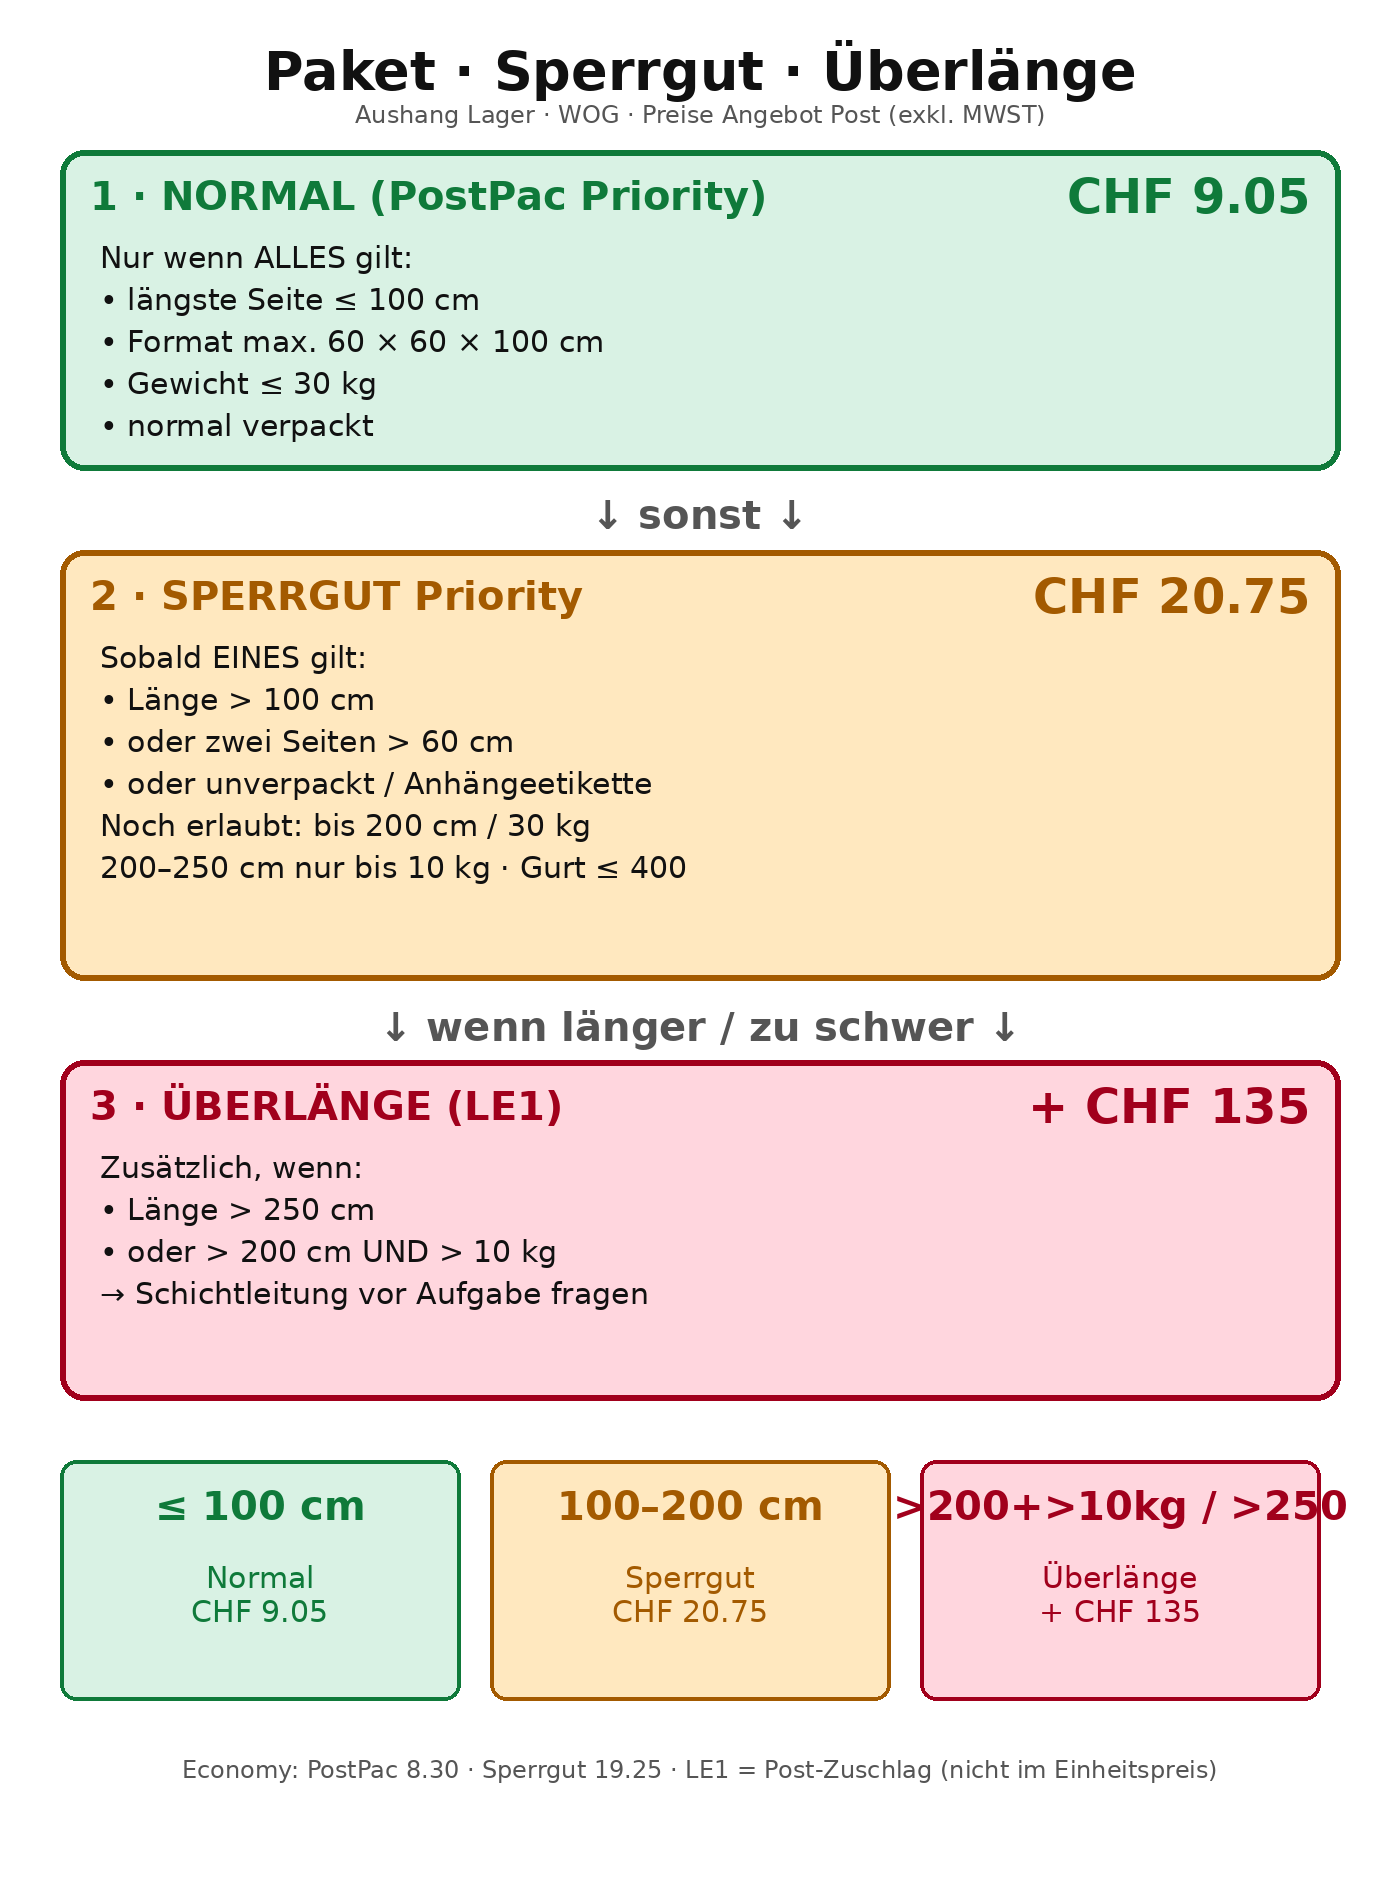
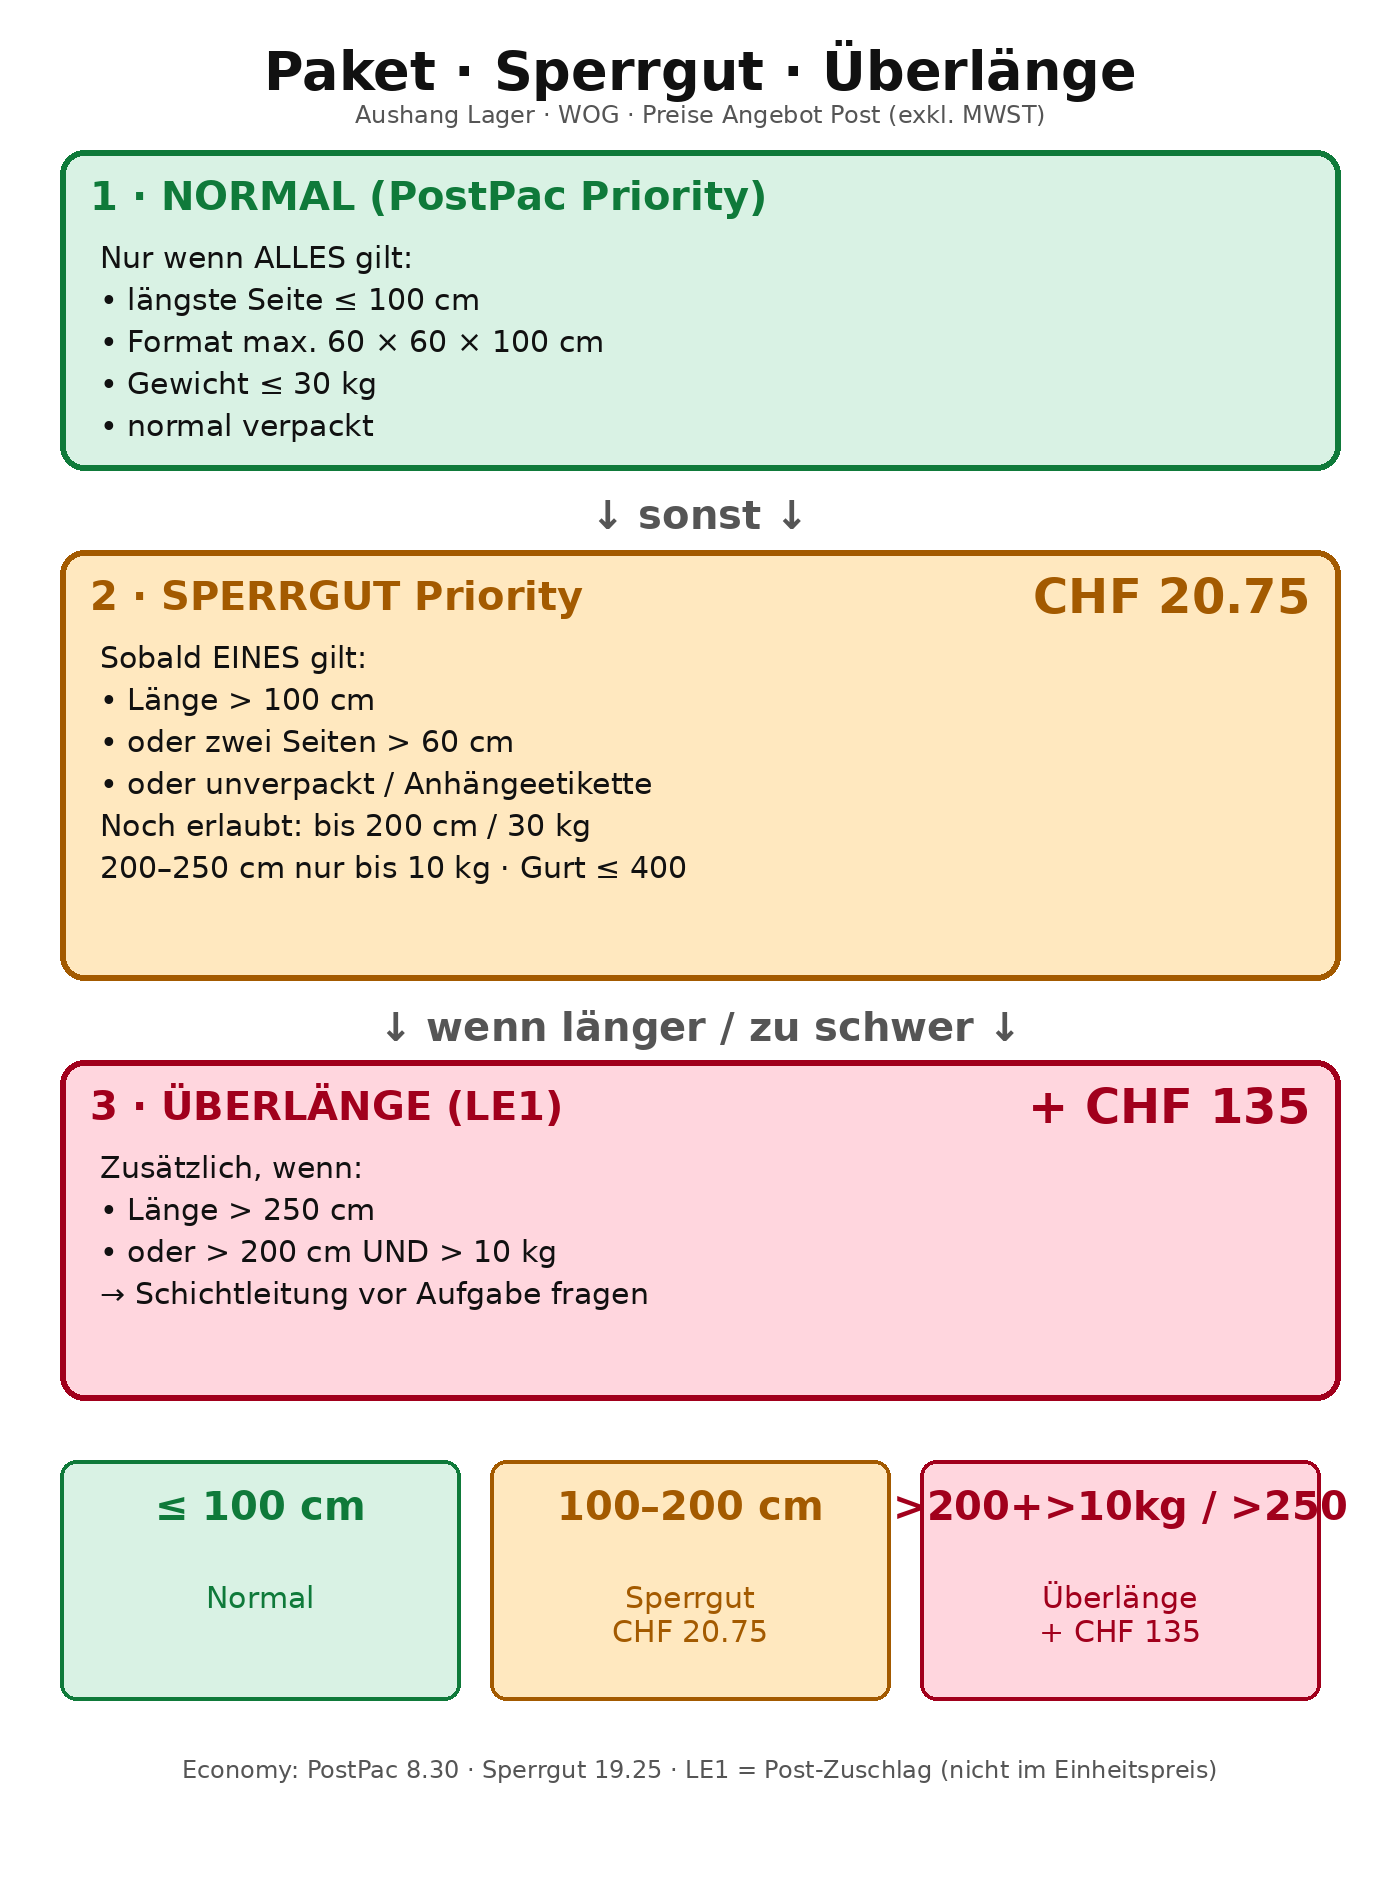
docs(wog-connect): Betrag bei Normal/grün aus Lagerhilfe entfernen

diff --git a/wog-connect/web/static/lager-mass-hilfe.html b/wog-connect/web/static/lager-mass-hilfe.html
@@ -129,7 +129,6 @@
     <section class="step ok">
       <div class="head">
         <div class="nr">1 · NORMAL (PostPac Priority)</div>
-        <div class="chf">CHF 9.05</div>
       </div>
       <p class="rule">Nur wenn ALLES gilt:</p>
       <ul>
@@ -176,7 +175,7 @@
     </section>
 
     <div class="bar">
-      <div class="a"><strong>≤ 100 cm</strong>Normal<br>CHF 9.05</div>
+      <div class="a"><strong>≤ 100 cm</strong>Normal</div>
       <div class="b"><strong>100–200 cm</strong>Sperrgut<br>CHF 20.75</div>
       <div class="c"><strong>&gt;200 cm + &gt;10 kg<br>oder &gt;250 cm</strong>Überlänge<br>+ CHF 135</div>
     </div>
